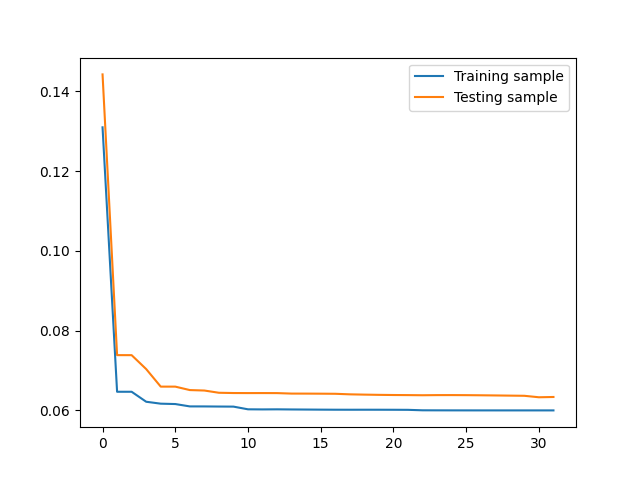
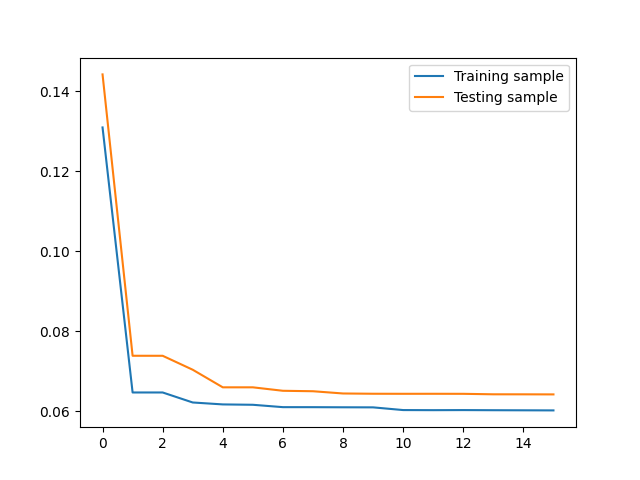
something's wrong with MSE comparison plot

diff --git a/p1/code_p1.py b/p1/code_p1.py
@@ -67,7 +67,7 @@ def print_comparison_designX_details(X_mat, y_arr):
 *** Script flow
 """
 
-def part_a(seed):
+def part_a(seed, show_print=False):
     """
         Part a) of the assignment, or, alternatively:
     How to train your drago--- I mean, regression model
@@ -94,7 +94,8 @@ def part_a(seed):
     x_data_1d = np.ravel(x)
     y_data_1d = np.ravel(y)
     z_data_1d = np.ravel(z)
-
+    print("Z 1-DIM SHAPE:", z_data_1d.shape)
+    print("Z 2-DIM SHAPE:", z.shape)
     #* Make a plot to visualize z
     # pf.plot_FrankeFunction(x, y, z)
     # plt.show()
@@ -130,10 +131,8 @@ def part_a(seed):
     ztilde_OLS_scaled_Xtrain_btest = my_X_OLS_scaled_test @ beta_OLS_scaled_train 
     # ^ the last one's the one we're mostly interested in, I think
 
-    if True == 1:
-        print(f"(a):--- --- ---\n",
-            f"n_len   = {n_len}",
-            f"p_len   = {p_len}")
+    if show_print == True:
+        print(f"(a):--- --- ---\n")
         # print(" my_X:")
         # print("my_X_OLS_scaled_train.shape:", my_X_OLS_scaled_train.shape)
         # print("my_X_OLS_scaled_test.shape :", my_X_OLS_scaled_test.shape)
@@ -147,6 +146,8 @@ def part_a(seed):
         # print("ztilde_OLS_scaled_Xtest_btrain.shape:", ztilde_OLS_scaled_Xtest_btrain.shape)
         # print("ztilde_OLS_scaled_Xtrain_btest.shape:", ztilde_OLS_scaled_Xtrain_btest.shape)
         print(
+            f"n_len   = {n_len}",
+            f"p_len   = {p_len}",
             f"\n *** OLS: MSE & R2 measurements ***",
             f"\n  ( whole sample       /            straight ):",
             f"\n* MSE : {mf.compute_MSE(z_data_1d                , ztilde_OLS)}",
@@ -167,15 +168,16 @@ def part_a(seed):
     return
 
 
-def part_b(seed):
+def part_b(seed, show_print=False):
     """
     Bias-variance, and resampling
     """
     #! Make a figure similar to figure 2.11 of Hastie et al
     #* Declaring component variables and data
-    n_polys = np.arange(32)  # Polynomial sizes for the 2.11-replication plot
-    n_len = 1000             # Data point length/no. of observations
+    n_polys = np.arange(2**4)  # Polynomial sizes for the 2.11-replication plot
+    n_len = 1000               # Data point length/no. of observations
     p_len = np.array([mf.compute_n_predictors_2dim(n_p) for n_p in n_polys])
+    test_size = 0.2
     print(f"(b): p_len = {p_len}")
     # Base meshgrid data:
     x = np.sort(np.random.uniform(0, 1, n_len))
@@ -200,19 +202,22 @@ def part_b(seed):
 
     #* Create design matrices, betas, and predictions with varying degrees of polynomials
     for i in np.arange(len(n_polys)):
-        #- Create design matrix and split it
         print(f"(b): In loop i = {i+1:>2} / {len(n_polys):<2} | {'~'+str(int(i/len(n_polys)*100)):>3}%")
-        X_to_split = mf.create_X_2dim(x_data_1d, y_data_1d, n_polys[i])
-        train_inds, test_inds = mf.compute_train_test_indexes(n_rows=n_len, test_size=0.2, seed=seed)
-        X_train                 = X_to_split[train_inds]
-        X_test                  = X_to_split[test_inds ]
-        X_dict["train"][i]      = X_train
-        X_dict["test" ][i]      = X_test
+        #- Create design matrix, scale it, and split it
+        X_original            = mf.create_X_2dim(x_data_1d, y_data_1d, n_polys[i])
+        X_scaled, z_scaled    = mf.my_little_scaler(X_original, z_data_1d)
+        train_inds, test_inds = mf.compute_train_test_indexes(n_rows=n_len, test_size=test_size, seed=seed)
+        X_train               = X_scaled[train_inds]
+        X_test                = X_scaled[test_inds ]
+        z_scaled_data_train   = z_scaled[train_inds]
+        z_scaled_data_test    = z_scaled[test_inds ]
         # print(f"(b): X_train.shape = {str(X_train.shape):>10} --- (n_p={n_polys[i]:>2})")
         # print(f"(b): X_test.shape  = {str(X_test.shape ):>10} --- (n_p={n_polys[i]:>2})")
+        X_dict["train"][i]    = X_train
+        X_dict["test" ][i]    = X_test
         #- Compute beta
-        beta_train              = mf.compute_beta_OLS(X_train, z_data_1d[train_inds])
-        beta_test               = mf.compute_beta_OLS(X_test,  z_data_1d[test_inds] )
+        beta_train              = mf.compute_beta_OLS(X_train, z_scaled_data_train)
+        beta_test               = mf.compute_beta_OLS(X_test,  z_scaled_data_test )
         beta_dict["train"][i]   = beta_train
         beta_dict["test" ][i]   = beta_test
         #- Compute the model's predicted output
@@ -221,8 +226,25 @@ def part_b(seed):
         ztilde_dict["train"][i] = ztilde_train
         ztilde_dict["test" ][i] = ztilde_test
         #- Compute MSE
-        mse_trains[i] = mf.compute_MSE(z_data_1d[train_inds], ztilde_train)
-        mse_tests [i] = mf.compute_MSE(z_data_1d[test_inds ], ztilde_test )
+        mse_trains[i] = mf.compute_MSE(z_scaled_data_train, ztilde_train)
+        mse_tests [i] = mf.compute_MSE(z_scaled_data_test , ztilde_test )
+
+        if i == 5:
+            # shape_z_train = x[train_inds].shape
+            # print(X_train.shape, x.shape)
+            # print(shape_z_train)
+            # pf.plot_FrankeFunction(x[train_inds], y[train_inds], ztilde_train.reshape(shape_z_train))
+            # dummy = input("close plot and continue:")
+            # shape_z_test = x[test_inds].shape
+            # pf.plot_FrankeFunction(x[test_inds], y[test_inds], ztilde_test.reshape(shape_z_test))
+            # shape_z_train = x[train_inds].shape
+            # print(X_train.shape, x.shape)
+            # print(shape_z_train)
+            # pf.plot_FrankeFunction(x[train_inds], y[train_inds], ztilde_train.reshape(shape_z_train))
+            # dummy = input("close plot and continue:")
+            # shape_z_test = x[test_inds].shape
+            # pf.plot_FrankeFunction(x[test_inds], y[test_inds], ztilde_test.reshape(shape_z_test))
+            pass
         continue
 
     # Now we can plot the MSEs against one another
@@ -232,8 +254,8 @@ def part_b(seed):
     ax.plot(n_polys, mse_tests , label="Testing sample" )
     ax.legend(loc='best')
     # plt.show()
-    save_fig("b - train-test MSE vs n_poly (similar to 2dot11 of Hastie)")
-
+    # save_fig("b - train-test MSE vs n_poly (similar to 2dot11 of Hastie)")
+    plt.show()
     pass
  
 def part_c(seed):
@@ -292,8 +314,8 @@ def part_g(seed):
 def main(seed):
     """ Primary flow of this script """
     # Execution
-    part_a(seed)
-    part_b(seed)
+    # part_a(seed, show_print=0)
+    part_b(seed, show_print=1)
     # part_c(seed)
     # part_d(seed)
     # part_e(seed)

diff --git a/p1/tasklist.md b/p1/tasklist.md
@@ -1,72 +1,83 @@
 # List of tasks
 
 ## Part (a)
+
 The fundamental conduct of code and linear algebra.
 
 ### 1: Make data
+
 - [ ] Generate dataset.
   - [ ] With stochastic noise.
 
 ### 2: Analysis
-- [ ] Perform a "standard least square regression analysis, 
+
+- [ ] Perform a "standard least square regression analysis,
       using polynomials in $x$ and $y$ up to fifth order".
   - May use code from hw1 & hw2.
 - [ ] Find "confidence intervals of the parameters (estimators) $\bm{\beta}$" by...
-  - [ ] computing their **variances**, 
+  - [ ] computing their **variances**,
   - [ ] Evaluate the **MSE**,
   - [ ] and the **R2 score function**.
 - [ ] And then **scale the data** (e.g. by subtracting the mean value)
 - See hw2 for examples.
 - Use  SciKit-Learn for splitting "training" and "test" data, use function `train_test_split`.
-- Also suggested: 
+- Also suggested:
     **normalization functionality of SKL**,
     as demonstrated in **hw2**, **exercise 2**.
   
 ## Part (b)
+
 Studying bias-variance trade-off by implementing **bootstrap** resampling technique, with OLS code and in context of "continuous predictions" (such as regression).
 
-### 1: _Before_ conducting bias-variance trade-off on test data:
+### 1: _Before_ conducting bias-variance trade-off on test data
+
 Make a figure similar to Fig. 2.11 of Hastie, Tibshirani, and Friedman to:
+
 - [ ] Display the test and training MSEs.
 - [ ] Use test MSE to indicate possible regions of low/high bias and variance.
-    - (Try to get a smooth curve!)
+  - (Try to get a smooth curve!)
 
-### 2: _Now_, the bias-variance trade-off analysis.
+### 2: _Now_, the bias-variance trade-off analysis
+
 Consider a dataset $\mathcal{L}$, consisting of data $\bm{X}_\mathcal{L}=\{(y_j, \boldsymbol{x}_j), j=0\ldots n-1\}$
+
 - [ ] Create noisy data.
-  - Assume true data from noisy model: 
+  - Assume true data from noisy model:
     $\\y = f(x) + \varepsilon,\quad\varepsilon\ is\ \mathcal{N}(\mu=0, \sigma^2)$
 - [ ] Define f in terms of the **bias parameter** $\bm{\beta}$.
   - (from OLS): assume to define approximation of the function
     $f(x) = \tilde{y} = \bm{X}\bm{\beta}$.
 - [ ] Find parameters for $\bm{\beta}$ by optimizing the mean **squared error**, via the **Cost Function**:
 $$
-C(\bm{X},\bm{\beta}) 
+C(\bm{X},\bm{\beta})
   = \frac{1}{n}\sum_{i=0}^{n-1}(y_i-\tilde{y}_i)^2
   = \mathbb{E}\left[(\bm{y}-\bm{\tilde{y}})^2\right].
 $$
   - *(?)* With $\mathbb{E}\left[(\bm{y}-\bm{\tilde{y}})^2\right]$, show that "**the expectation value is the sample value**".
-  - [ ] Show how to rewrite this into 
+  - [ ] Show how to rewrite this into
 $$
-\mathbf{E}\left[(\bm{y}-\bm{\tilde{y}})^2\right] = 
-    \frac{1}{n}\sum_i(f_i-\mathbb{E}\left[\bm{\tilde{y}}\right])^2 
+\mathbf{E}\left[(\bm{y}-\bm{\tilde{y}})^2\right] =
+    \frac{1}{n}\sum_i(f_i-\mathbb{E}\left[\bm{\tilde{y}}\right])^2
   + \frac{1}{n}\sum_i(\tilde{y}_i-\mathbb{E}\left[\bm{\tilde{y}}\right])^2
   + \sigma^2.
 $$
 - [ ] Perform a **bias-variance analysis** of the Franke function, by studiyng the **MSE** values as a function of the **complexity** of used model.
 - [ ] Discuss **bias and variance trade-off** as function of your model **complexity** and the **number of data points**, 
   - [ ] and possibly also on **training and test data** using the **bootstrap** resampling method.
-- Note: 
+- Note:
     When calculating bias, in all applications one doesn't know the function values $f_i$,
     so these would hence be replaced with actual data points $y_i$.
 
 ## Part (c)
+
 Cross-validation as resampling techniques (adding more complexity).
 
 ### 1: Before we begin
+
 - [ ] Scale the data.
 
 ### 2: Implement
+
 - [ ] Implement **$k$-fold cross-validation algorithm** (by own code, this time).
   - [ ] Evaluate the **MSE** function resulting from **test** folds.
     - [ ] Compare **own code**'s results, with results that utilize **SKL**.
@@ -75,41 +86,47 @@ Cross-validation as resampling techniques (adding more complexity).
     - [ ] Compare own **cross-validation code**, with the one provided by **SKL**.
 
 ## Part (d)
+
 Ridge Regression on the Franke function with resampling.
 
 ### 1: Write your own code
-- [ ] ...for the **Ridge** method, either by using **matrix inversion**, 
+
+- [ ] ...for the **Ridge** method, either by using **matrix inversion**,
       or the **singular value decomposition** - as done in the previous exercise, or howework 2.
-  - [see also chapter 3.4 of Hastie et al., equations (3.43) and (3.44)]. 
-- [ ] Perform the same **bootstrap analysis** as in the part (b) (for the same polynomials) 
+  - [see also chapter 3.4 of Hastie et al., equations (3.43) and (3.44)].
+- [ ] Perform the same **bootstrap analysis** as in the part (b) (for the same polynomials)
   - [ ] and the **cross-validation** part in part (c), but now for **different values** of λ.
 - [ ] Compare and analyze your results with those obtained in parts (a)-(c):
   - Study the dependence on λ.
-- [ ] Study also the **bias-variance trade-off** as function of various values of the parameter λ. 
+- [ ] Study also the **bias-variance trade-off** as function of various values of the parameter λ.
 - [ ] For the bias-variance trade-off, **use the bootstrap resampling method**. Comment your results.
 
 ## Part (e)
+
 Lasso Regression on the Franke function with resampling. This part is essentially a repeat of the previous two ones, but now with
 
-### 1: Lasso regression. 
-Write either your own code (difficult and optional) or, in this case,
-you can also use the functionalities of Scikit-Learn (recommended). 
+### 1: Lasso regression
 
-- [ ] Give a critical discussion of the three methods and a judgement of which model fits the data best. 
-- [ ] Perform here as well an analysis of the **bias-variance trade-off**, 
-      using the **bootstrap resampling technique** 
+Write either your own code (difficult and optional) or, in this case,
+you can also use the functionalities of Scikit-Learn (recommended).
+
+- [ ] Give a critical discussion of the three methods and a judgement of which model fits the data best.
+- [ ] Perform here as well an analysis of the **bias-variance trade-off**,
+      using the **bootstrap resampling technique**
       and an analysis of the **mean squared error** using **cross-validation**.
 
 ## Part (f)
-Introducing real data and preparing the data analysis. 
 
-With our codes functioning and having been tested properly on a simpler function, we are now ready to look at real data. 
+Introducing real data and preparing the data analysis.
 
-We will essentially repeat in part (g) what was done in parts (a)-(e). However, we need first to download the data and prepare properly the inputs to our codes. We are going to download digital terrain data from the website https://earthexplorer.usgs.gov/.
+With our codes functioning and having been tested properly on a simpler function, we are now ready to look at real data.
+
+We will essentially repeat in part (g) what was done in parts (a)-(e). However, we need first to download the data and prepare properly the inputs to our codes. We are going to download digital terrain data from the website [https://earthexplorer.usgs.gov/](https://earthexplorer.usgs.gov/).
 
 In order to obtain data for a specific region, you need to register as a user (free) at this website and then decide upon which area you want to fetch the digital terrain data from. In order to be able to read the data properly, you need to specify that the format should be SRTM Arc-Second Global and download the data as a GeoTIF file. The files are then stored in /tif/ format which can be imported into a Python program using `scipy.misc.imread`
 
 Here is a simple part of a Python code which reads and plots the data from such files:
+
 ```python
 import numpy as np
 from imageio import imread
@@ -126,24 +143,27 @@ plt.xlabel(’X’)
 plt.ylabel(’Y’)
 plt.show()
 ```
-If you should have problems in downloading the digital terrain data, we provide two examples under the data folder of project 1. One is from a region close to Stavanger in Norway and the other Møsvatn Austfjell, again in Norway. Feel free to produce your own terrain data. 
+
+If you should have problems in downloading the digital terrain data, we provide two examples under the data folder of project 1. One is from a region close to Stavanger in Norway and the other Møsvatn Austfjell, again in Norway. Feel free to produce your own terrain data.
 
 Alternatively, if you would like to use another data set, feel free to do so. This could be data close to your reseach area or simply a data set you found interesting. See for example kaggle.com for examples.
 
+## Part (g)
 
-## Part (g) 
-OLS, Ridge and Lasso regression with resampling. 
+OLS, Ridge and Lasso regression with resampling.
 
 Our final part deals with the parameterization of your digital terrain data (or your own
-data). 
+data).
 
 We will:
-- [ ]  apply **all three methods** for **linear regression**, 
+
+- [ ]  apply **all three methods** for **linear regression**,
   - [ ]  (OLS)
   - [ ]  (Ridge)
   - [ ]  (Lasso)
 - [ ] as well as the same type (or higher order) of **polynomial approximation** and **cross-validation as resampling technique** to evaluate which model fits the data best.
 
 At the end, you should present:
-- [ ] a critical evaluation of your results, and 
+
+- [ ] a critical evaluation of your results, and
 - [ ] discuss the applicability of these regression methods to the type of data presented here (either the terrain data we propose or other data sets).
